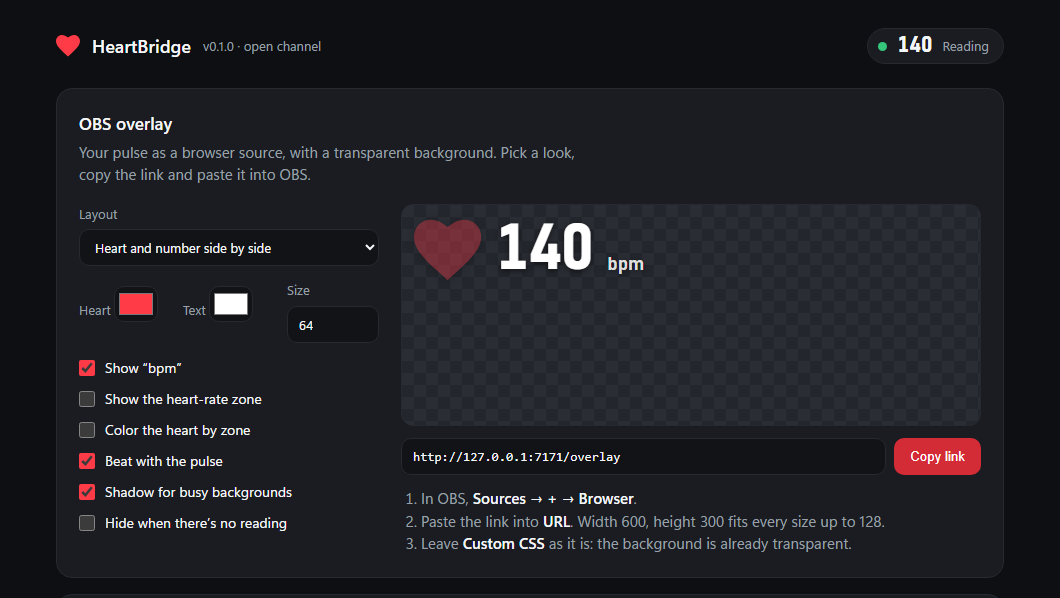
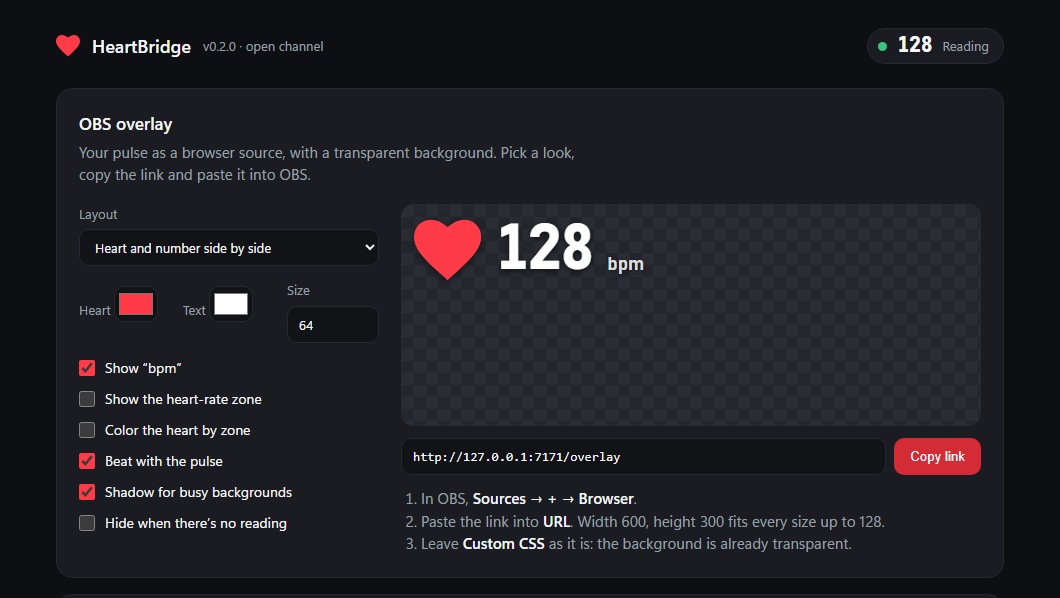
Release 0.2.0

diff --git a/CHANGELOG.md b/CHANGELOG.md
@@ -4,7 +4,7 @@ All notable changes to HeartBridge are listed here. The format follows
 [Keep a Changelog](https://keepachangelog.com/en/1.1.0/), and versions follow
 [Semantic Versioning](https://semver.org/).
 
-## [Unreleased]
+## [0.2.0] - 2026-11-18
 
 ### Added
 
@@ -45,5 +45,5 @@ First release.
 - Debug window with the raw strap packets, the OSC state and a copyable event log.
 - Windows, Linux (X11 and Wayland) and macOS builds.
 
-[Unreleased]: https://github.com/setsumi-vrc/heartbridge/compare/v0.1.0...HEAD
+[0.2.0]: https://github.com/setsumi-vrc/heartbridge/compare/v0.1.0...v0.2.0
 [0.1.0]: https://github.com/setsumi-vrc/heartbridge/releases/tag/v0.1.0
